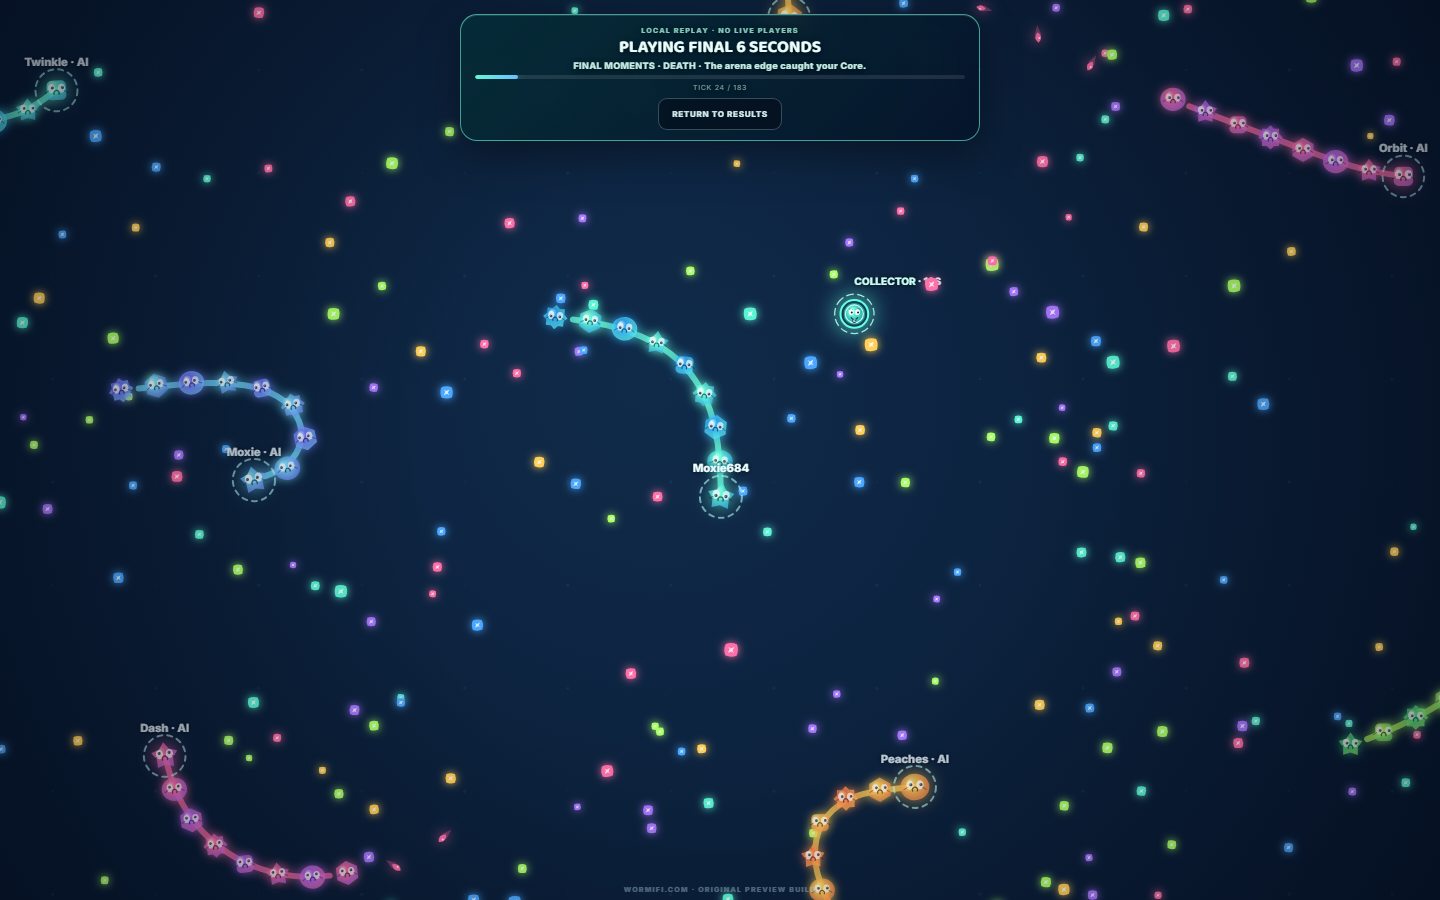
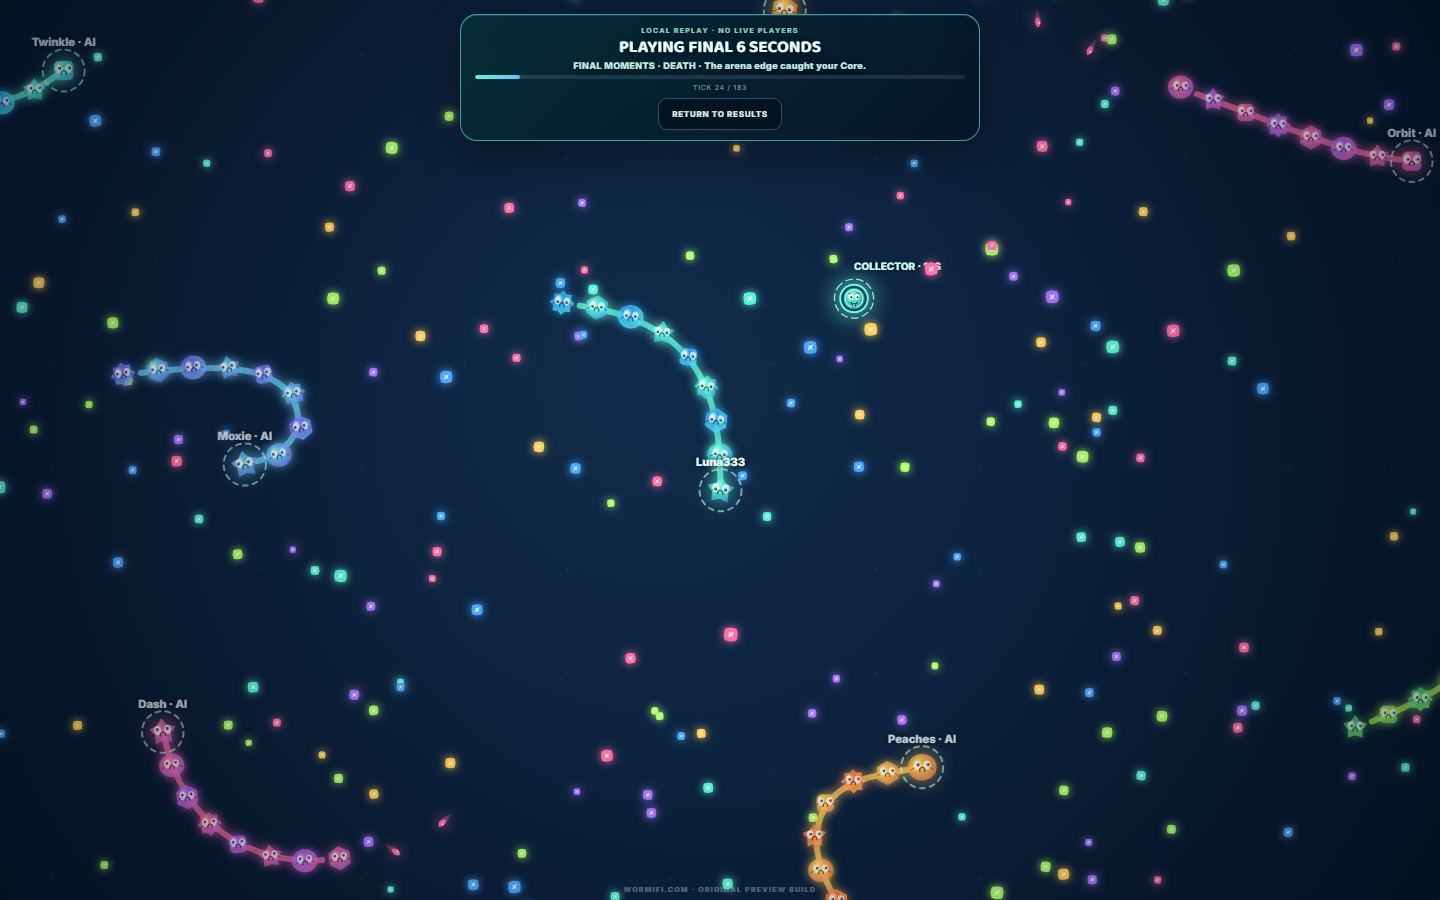
Attach Wormifi domains after public preview gate

diff --git a/deploy/DIGITALOCEAN-PREVIEW.md b/deploy/DIGITALOCEAN-PREVIEW.md
@@ -2,12 +2,13 @@
 
 ## Scope and isolation
 
-`do-preview.yaml` describes a **new** App Platform app named
+`do-preview.yaml` describes the isolated App Platform app named
 `wormifi-preview`. It uses only
 `https://github.com/emailonly613-web/wormifi.git`. It does not reference, update,
-or reuse either Fire Your Coworkers app, and it does not attach `wormifi.com`.
-The first deployment must use only the DigitalOcean-assigned
-`*.ondigitalocean.app` starter domain.
+or reuse either Fire Your Coworkers app. The first deployment used only the
+DigitalOcean-assigned `*.ondigitalocean.app` starter domain. The `wormifi.com`
+and `www.wormifi.com` declarations were added afterward, only after the starter
+passed public HTTPS, WSS, two-client/reconnect, desktop, mobile, and replay proof.
 
 The app has two components:
 
@@ -82,8 +83,9 @@ Before considering any custom domain:
 5. Review service CPU, memory, restarts, bandwidth, and connection stability in
    App Platform Insights.
 
-Only after that gate passes should a separate reviewed change add a `domains`
-block for `wormifi.com`.
+That gate passed on the isolated starter domain before the reviewed `domains`
+block was added. Domain health and certificate issuance remain separate checks;
+the declaration itself is not proof that DNS or TLS is ready.
 
 ## Platform limitations that affect this design
 

diff --git a/README.md b/README.md
@@ -65,9 +65,9 @@ corepack pnpm --dir server test:load
 corepack pnpm og:verify
 ```
 
-The DigitalOcean preview spec and isolation checks live under `deploy/`. That
-spec intentionally creates a new Wormifi application on a starter domain before
-any custom-domain attachment.
+The DigitalOcean deployment record and isolation checks live under `deploy/`.
+The application was first proven on its starter domain; the Wormifi apex and www
+alias were declared only after the public HTTPS/WSS/mobile/replay gate passed.
 
 ## Design and operating documents
 
